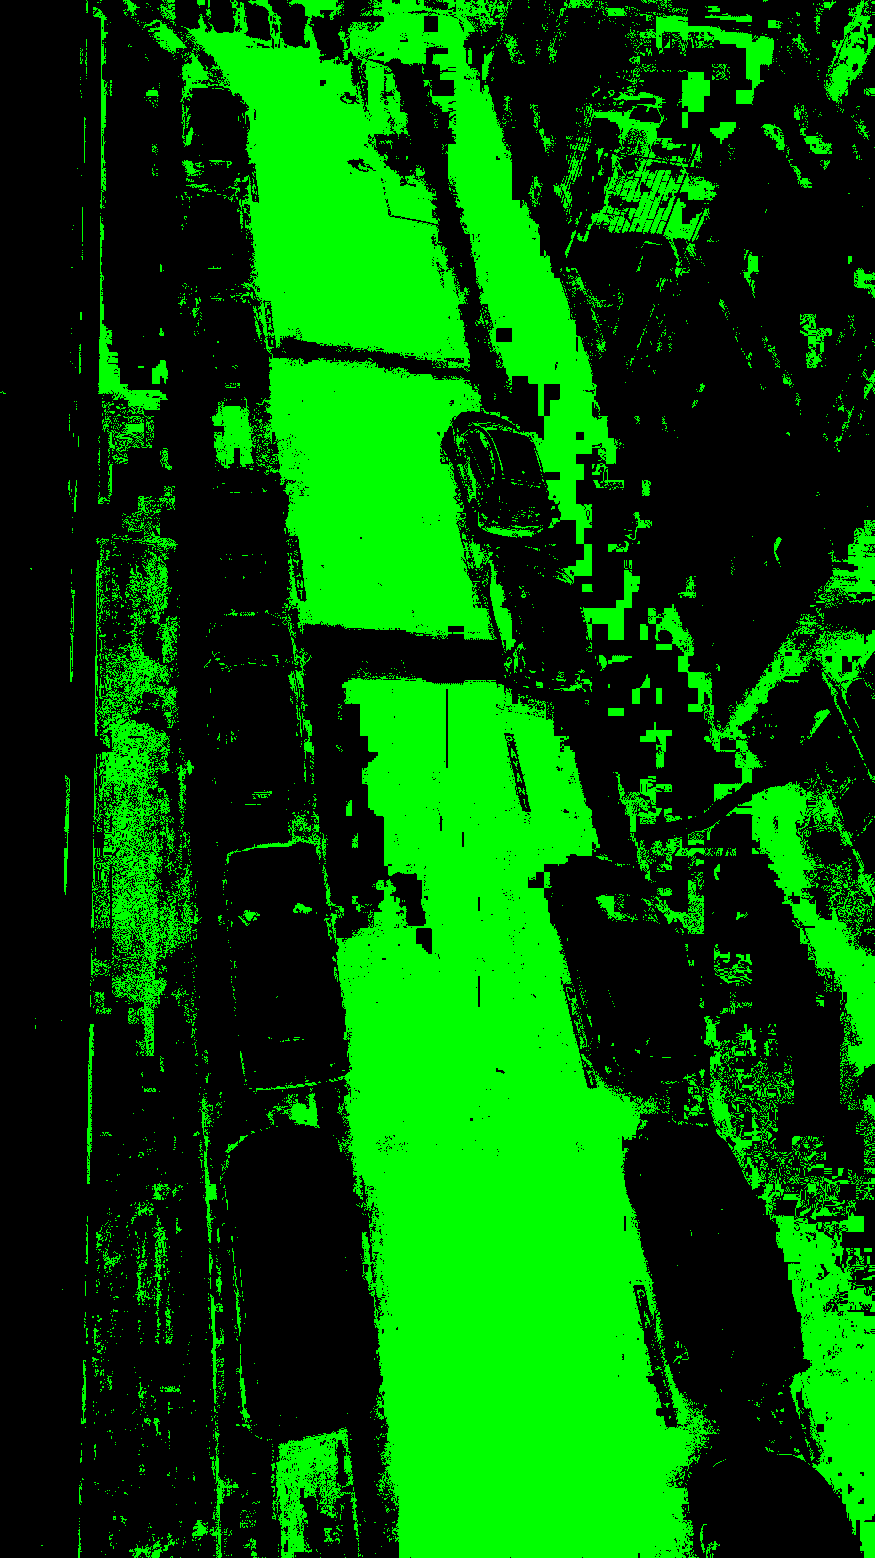
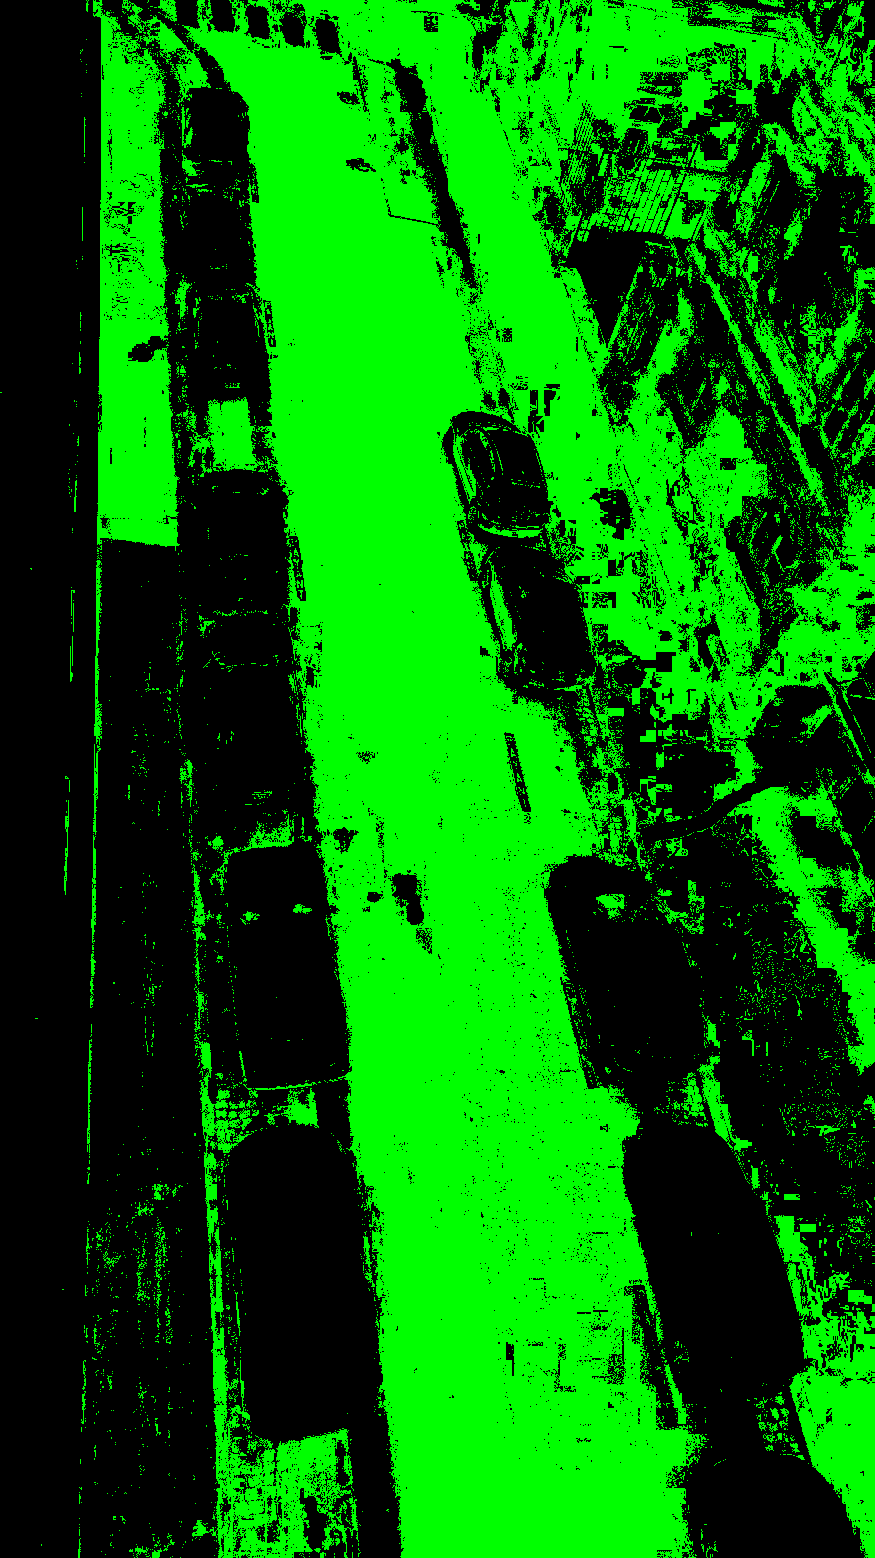
ajout support multi camera pour superpose calque

diff --git a/Python_masques/main_generation_calque.py b/Python_masques/main_generation_calque.py
@@ -42,7 +42,7 @@ IMAGES = True
 chemin_image_camera = "camera.png"
 
 # Chemin "base de donnee" pixels sol
-chemin_pixels_macadam = "macadam2.png"
+chemin_pixels_macadam = "macadam3.png"
 
 # Chemin image a nettoyer
 chemin_image_a_nettoyer = "1_noirOUvert.png"
@@ -63,7 +63,7 @@ chemin_image_noir_ou_vert = "3_noir_ou_vert.png"
 filtre_contraste = np.array([[0, 0, 0, 0, 0],[0, 0, -1, 0, 0],[0, -1, 5, -1, 0],[0, 0, -1, 0, 0], [0, 0, 0, 0, 0]])
 
 # Nombre de passage dans la boucle d'augmentation du contraste
-nbr_de_passage = 5
+nbr_de_passage = 14
 
 # Precision du découpage en tranche de l'étape 3
 nombre_de_tranches = 7
@@ -185,6 +185,9 @@ image_nettoyee_contraste = Ouvrir_Image(chemin_image_nettoyee_contraste)
 calques_image_nettoyee_contraste = Extraire_Calque_Image_Sans_Alpha(image_nettoyee_contraste)
 image_noir_ou_vert = Binarisation_Couleur_Image(calques_image_nettoyee_contraste[1], seuil_difference_noir_vert)
 Enregistre_Image(image_noir_ou_vert, chemin_image_noir_ou_vert, IMAGES)
+
+#Technique n.1 pour determiner la largeur de la route, pas efficace et très lente
+"""
 largeur_route = []
 epaisseur_bande_detection_route = image_noir_ou_vert.size[1]/nombre_bande_detection_route
 for tranche in range(nombre_bande_detection_route):
@@ -208,6 +211,7 @@ for tranche in range(nombre_bande_detection_route):
 	distance_max_gauche = distance_max_gauche + 1
 	largeur_route.append((distance_max_gauche,distance_max_droite))
 Debug("largeur route", largeur_route, DEBUG)
+"""
 Checkpoint(4, CHECKPOINT)
 
 

diff --git a/Python_masques/main_superposition_calque.py b/Python_masques/main_superposition_calque.py
@@ -19,9 +19,10 @@ print str(sys.argv)
 chemin_acces_photo = sys.argv[1]
 image_cible = Ouvrir_Image(chemin_acces_photo)
 
+numero_camera = int(sys.argv[2])
 
 # On ouvre le calque
-calque = Ouvrir_Image("calque.png")
+calque = Ouvrir_Image("calque" + str(numero_camera) + ".png")
 
 # On supperpose le calque 
 for x in range(image_cible.size[0]):
